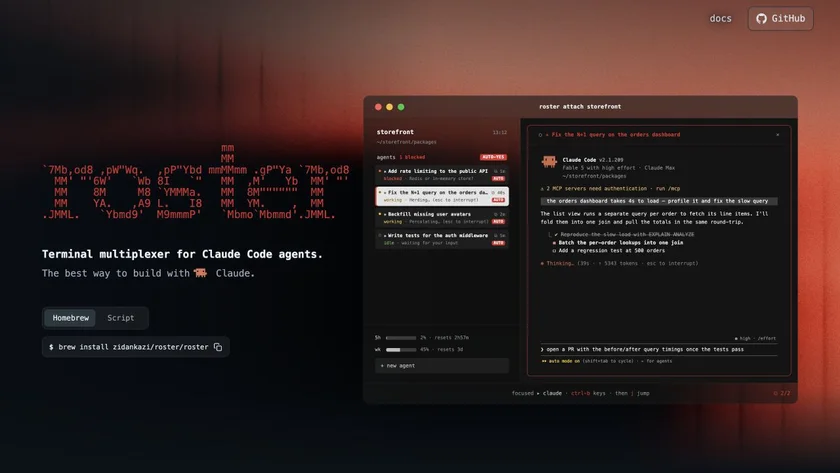
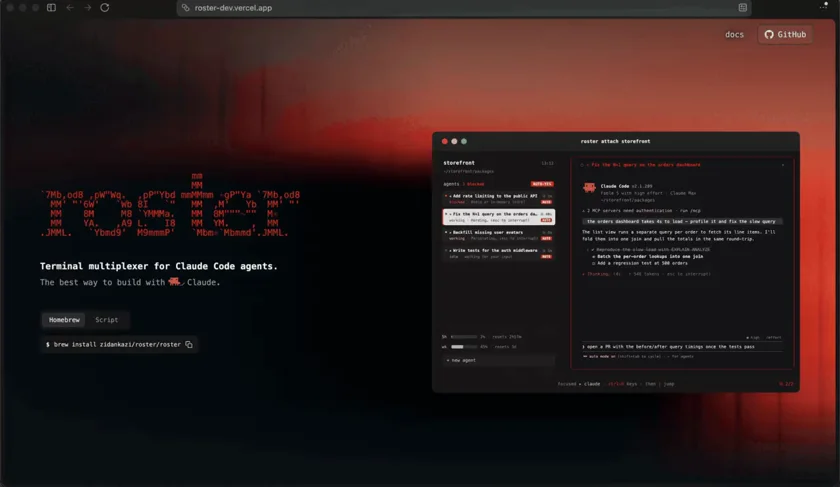
Use original project GIFs and looping Roster video

diff --git a/src/components/chat/ProjectHoverPreview.tsx b/src/components/chat/ProjectHoverPreview.tsx
@@ -13,6 +13,44 @@ const INSET = 16;
 const HOVER_DELAY = 240;
 const PREVIEW_QUERY = '(min-width: 768px) and (hover: hover) and (pointer: fine) and (prefers-reduced-motion: no-preference)';
 
+// Only mount moving media for the hovered row. The still underneath remains
+// visible while it loads, or if playback fails.
+function ProjectMotionPreview({ media }: { media: NonNullable<Project['previewMotion']> }) {
+    const [ready, setReady] = useState(false);
+    const className = 'absolute inset-0 h-full w-full object-contain transition-opacity duration-150';
+
+    if (media.type === 'video') {
+        return (
+            <video
+                src={media.src}
+                autoPlay
+                loop
+                muted
+                playsInline
+                preload="auto"
+                className={className}
+                style={{ opacity: ready ? 1 : 0 }}
+                onPlaying={() => setReady(true)}
+                onError={() => setReady(false)}
+            />
+        );
+    }
+
+    return (
+        <Image
+            src={media.src}
+            alt=""
+            fill
+            unoptimized
+            loading="eager"
+            className={className}
+            style={{ opacity: ready ? 1 : 0 }}
+            onLoad={() => setReady(true)}
+            onError={() => setReady(false)}
+        />
+    );
+}
+
 export function ProjectHoverPreview({ projects, children }: { projects: Project[]; children: ReactNode }) {
     const [enabled, setEnabled] = useState(false);
     const [warmed, setWarmed] = useState(false);
@@ -140,6 +178,9 @@ export function ProjectHoverPreview({ projects, children }: { projects: Project[
                                     onLoad={() => setLoaded((current) => ({ ...current, [project.title]: true }))}
                                     onError={() => setLoaded((current) => ({ ...current, [project.title]: false }))}
                                 />
+                                {active === project.title && project.previewMotion && (
+                                    <ProjectMotionPreview media={project.previewMotion} />
+                                )}
                             </motion.div>
                         ))}
                     </motion.div>

diff --git a/src/data/projects.ts b/src/data/projects.ts
@@ -10,6 +10,7 @@ export type Project = {
   descriptionLink?: { text: string; href: string };
   links: ProjectLink[];
   preview?: string;
+  previewMotion?: { src: string; type: 'gif' | 'video' };
 };
 
 export const projects: Project[] = [
@@ -24,6 +25,7 @@ export const projects: Project[] = [
   {
     title: 'roster',
     preview: '/projects/roster.webp',
+    previewMotion: { src: '/projects/roster.mp4', type: 'video' },
     description: 'terminal multiplexer for claude code agents. run several in real panes and see which one is blocked, working, or done — plus the exact prompt each one is waiting on.',
     links: [
       { label: 'github', href: 'https://github.com/zidankazi/roster' },
@@ -33,6 +35,7 @@ export const projects: Project[] = [
   {
     title: 'multi-agent hide and seek',
     preview: '/projects/hide-and-seek.webp',
+    previewMotion: { src: '/projects/hide-and-seek.gif', type: 'gif' },
     description: 'trained with self-play ppo, reproducing the emergent tool use from openai\'s 2019 paper.',
     descriptionLink: {
       text: 'openai\'s 2019 paper',
@@ -72,6 +75,7 @@ export const projects: Project[] = [
   {
     title: 'orbital',
     preview: '/projects/orbital.webp',
+    previewMotion: { src: '/projects/orbital.gif', type: 'gif' },
     description: 'real-time satellite tracker for the terminal. renders earth as a 3d ascii globe and tracks satellites utilizing live sgp4 mechanics.',
     links: [
       { label: 'github', href: 'https://github.com/zidankazi/orbital' },
